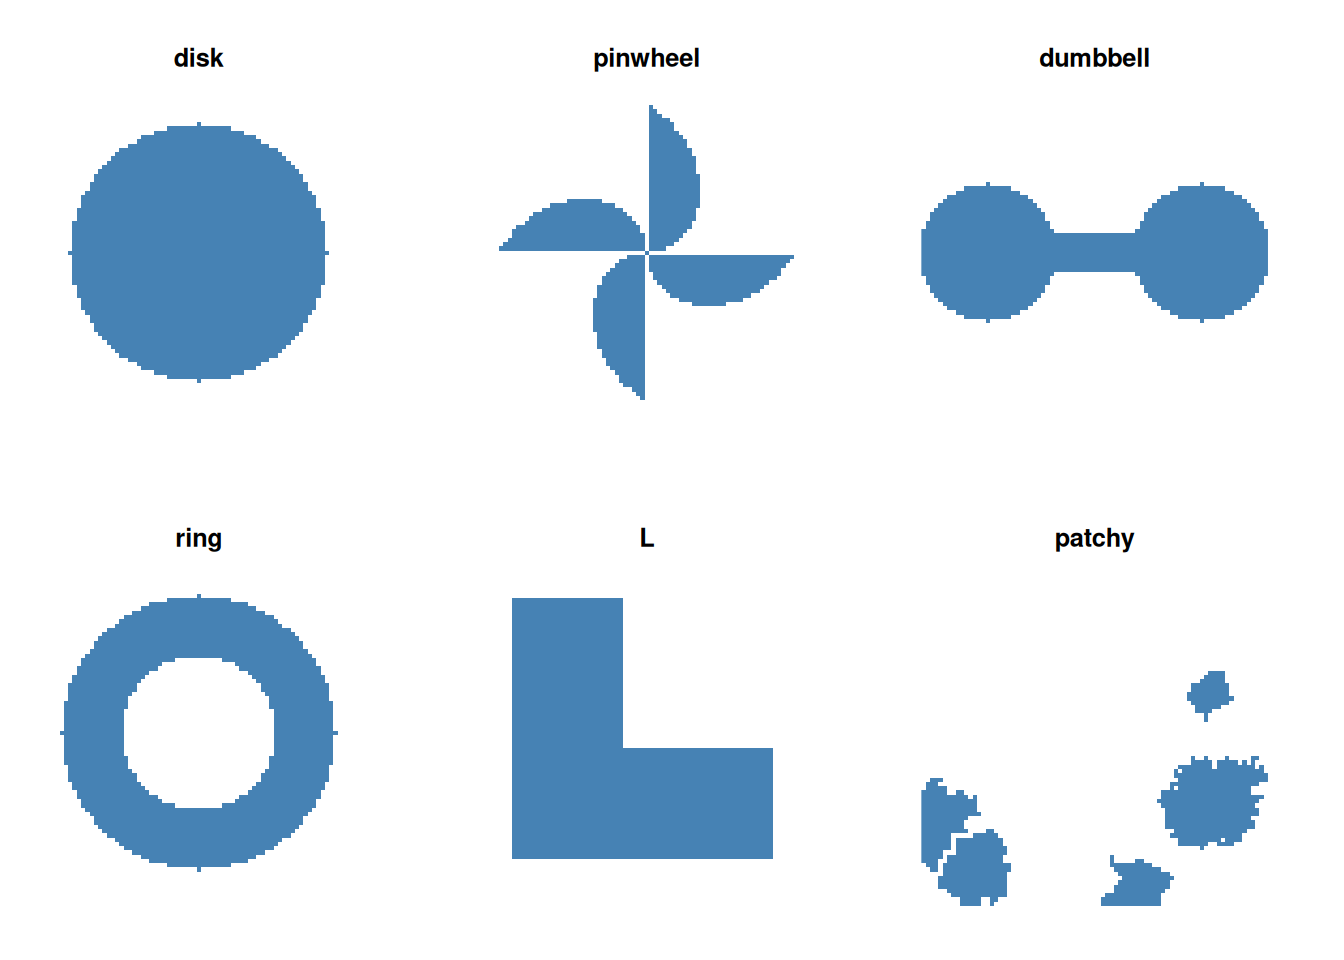
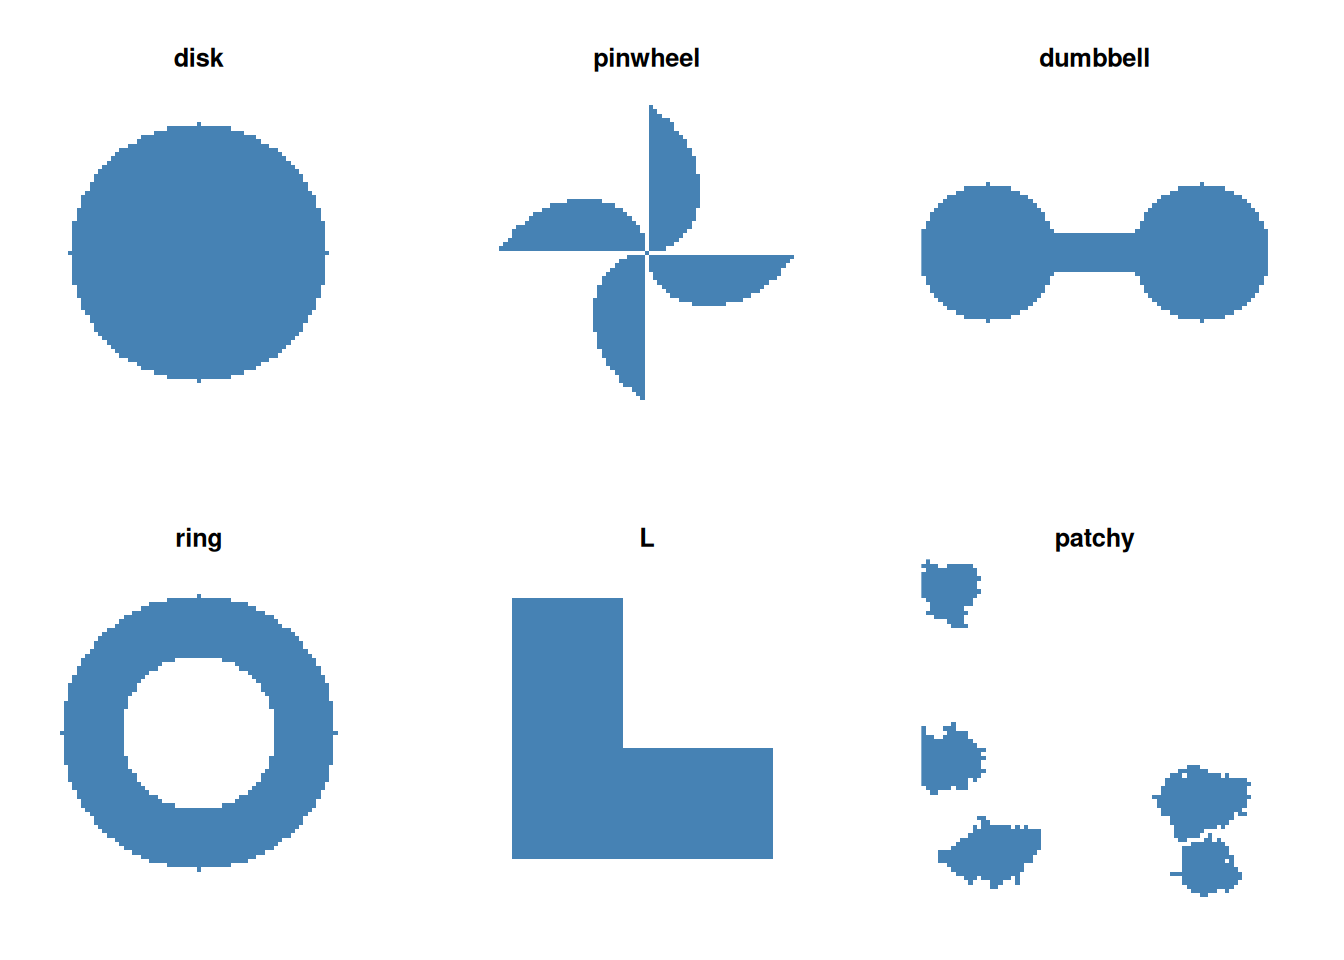
Deploying to gh-pages from @ nkaza/gridmorph@7335455c190198e38a2ae7d96c6a8dbcf4e39bb3 🚀

diff --git a/articles/a-basic-usage.html b/articles/a-basic-usage.html
@@ -292,7 +292,7 @@
 <td style="text-align: right;">0.665</td>
 <td style="text-align: right;">0.425</td>
 <td style="text-align: right;">0.675</td>
-<td style="text-align: right;">0.429</td>
+<td style="text-align: right;">0.414</td>
 </tr>
 <tr class="even">
 <td style="text-align: left;">moment_of_inertia</td>
@@ -301,7 +301,7 @@
 <td style="text-align: right;">0.411</td>
 <td style="text-align: right;">0.523</td>
 <td style="text-align: right;">0.689</td>
-<td style="text-align: right;">0.168</td>
+<td style="text-align: right;">0.126</td>
 </tr>
 <tr class="odd">
 <td style="text-align: left;">moment_isotropy</td>
@@ -310,7 +310,7 @@
 <td style="text-align: right;">0.093</td>
 <td style="text-align: right;">1.000</td>
 <td style="text-align: right;">0.400</td>
-<td style="text-align: right;">0.140</td>
+<td style="text-align: right;">0.319</td>
 </tr>
 <tr class="even">
 <td style="text-align: left;">directional_balance</td>
@@ -319,7 +319,7 @@
 <td style="text-align: right;">0.999</td>
 <td style="text-align: right;">1.000</td>
 <td style="text-align: right;">0.926</td>
-<td style="text-align: right;">0.873</td>
+<td style="text-align: right;">0.880</td>
 </tr>
 <tr class="odd">
 <td style="text-align: left;">convexity</td>
@@ -328,7 +328,7 @@
 <td style="text-align: right;">0.888</td>
 <td style="text-align: right;">0.681</td>
 <td style="text-align: right;">0.950</td>
-<td style="text-align: right;">0.580</td>
+<td style="text-align: right;">0.491</td>
 </tr>
 <tr class="even">
 <td style="text-align: left;">span</td>
@@ -337,7 +337,7 @@
 <td style="text-align: right;">0.672</td>
 <td style="text-align: right;">0.722</td>
 <td style="text-align: right;">0.839</td>
-<td style="text-align: right;">0.446</td>
+<td style="text-align: right;">0.367</td>
 </tr>
 <tr class="odd">
 <td style="text-align: left;">radial_concentration</td>
@@ -346,7 +346,7 @@
 <td style="text-align: right;">0.642</td>
 <td style="text-align: right;">0.694</td>
 <td style="text-align: right;">0.840</td>
-<td style="text-align: right;">0.417</td>
+<td style="text-align: right;">0.352</td>
 </tr>
 <tr class="even">
 <td style="text-align: left;">hull_ratio</td>
@@ -355,7 +355,7 @@
 <td style="text-align: right;">0.710</td>
 <td style="text-align: right;">0.666</td>
 <td style="text-align: right;">0.803</td>
-<td style="text-align: right;">0.310</td>
+<td style="text-align: right;">0.237</td>
 </tr>
 <tr class="odd">
 <td style="text-align: left;">polsby_popper</td>
@@ -364,7 +364,7 @@
 <td style="text-align: right;">0.465</td>
 <td style="text-align: right;">0.280</td>
 <td style="text-align: right;">0.593</td>
-<td style="text-align: right;">0.120</td>
+<td style="text-align: right;">0.123</td>
 </tr>
 <tr class="even">
 <td style="text-align: left;">width_length_ratio</td>
@@ -373,7 +373,7 @@
 <td style="text-align: right;">0.407</td>
 <td style="text-align: right;">1.000</td>
 <td style="text-align: right;">1.000</td>
-<td style="text-align: right;">0.679</td>
+<td style="text-align: right;">0.975</td>
 </tr>
 <tr class="odd">
 <td style="text-align: left;">reock</td>
@@ -382,7 +382,7 @@
 <td style="text-align: right;">0.354</td>
 <td style="text-align: right;">0.687</td>
 <td style="text-align: right;">0.447</td>
-<td style="text-align: right;">0.188</td>
+<td style="text-align: right;">0.122</td>
 </tr>
 <tr class="even">
 <td style="text-align: left;">detour</td>
@@ -391,7 +391,7 @@
 <td style="text-align: right;">0.747</td>
 <td style="text-align: right;">0.828</td>
 <td style="text-align: right;">0.806</td>
-<td style="text-align: right;">0.511</td>
+<td style="text-align: right;">0.433</td>
 </tr>
 <tr class="odd">
 <td style="text-align: left;">exchange</td>
@@ -400,7 +400,7 @@
 <td style="text-align: right;">0.438</td>
 <td style="text-align: right;">0.550</td>
 <td style="text-align: right;">0.726</td>
-<td style="text-align: right;">0.101</td>
+<td style="text-align: right;">0.034</td>
 </tr>
 <tr class="even">
 <td style="text-align: left;">geodesic_span</td>
@@ -505,33 +505,33 @@ multi-part shape.</code></pre>
 <tbody>
 <tr class="odd">
 <td style="text-align: right;">2</td>
-<td style="text-align: right;">1.50</td>
-<td style="text-align: right;">2.00</td>
+<td style="text-align: right;">1.52</td>
+<td style="text-align: right;">2.10</td>
 </tr>
 <tr class="even">
 <td style="text-align: right;">5</td>
-<td style="text-align: right;">1.50</td>
-<td style="text-align: right;">2.17</td>
+<td style="text-align: right;">1.58</td>
+<td style="text-align: right;">2.27</td>
 </tr>
 <tr class="odd">
 <td style="text-align: right;">10</td>
-<td style="text-align: right;">1.50</td>
-<td style="text-align: right;">2.77</td>
+<td style="text-align: right;">1.53</td>
+<td style="text-align: right;">2.89</td>
 </tr>
 <tr class="even">
 <td style="text-align: right;">20</td>
-<td style="text-align: right;">1.51</td>
-<td style="text-align: right;">3.91</td>
+<td style="text-align: right;">1.54</td>
+<td style="text-align: right;">4.04</td>
 </tr>
 <tr class="odd">
 <td style="text-align: right;">40</td>
-<td style="text-align: right;">1.52</td>
-<td style="text-align: right;">5.76</td>
+<td style="text-align: right;">1.56</td>
+<td style="text-align: right;">5.98</td>
 </tr>
 <tr class="even">
 <td style="text-align: right;">80</td>
-<td style="text-align: right;">1.54</td>
-<td style="text-align: right;">7.65</td>
+<td style="text-align: right;">1.57</td>
+<td style="text-align: right;">7.84</td>
 </tr>
 </tbody>
 </table>
@@ -560,17 +560,17 @@ multi-part shape.</code></pre>
 <tr class="odd">
 <td style="text-align: right;">2</td>
 <td style="text-align: right;">238</td>
-<td style="text-align: right;">0.69</td>
+<td style="text-align: right;">0.71</td>
 </tr>
 <tr class="even">
 <td style="text-align: right;">10</td>
 <td style="text-align: right;">574</td>
-<td style="text-align: right;">1.95</td>
+<td style="text-align: right;">2.01</td>
 </tr>
 <tr class="odd">
 <td style="text-align: right;">40</td>
 <td style="text-align: right;">986</td>
-<td style="text-align: right;">4.33</td>
+<td style="text-align: right;">4.44</td>
 </tr>
 </tbody>
 </table>

diff --git a/articles/c-comparison-with-shapeindices.html b/articles/c-comparison-with-shapeindices.html
@@ -303,8 +303,8 @@
 <span>           elapsed_seconds <span class="op">=</span> <span class="fu"><a href="https://rdrr.io/r/base/c.html" class="external-link">c</a></span><span class="op">(</span><span class="va">t_vector</span><span class="op">[[</span><span class="st">"elapsed"</span><span class="op">]</span><span class="op">]</span>, <span class="va">t_raster</span><span class="op">[[</span><span class="st">"elapsed"</span><span class="op">]</span><span class="op">]</span><span class="op">)</span><span class="op">)</span></span></code></pre></div>
 <div class="cell-output cell-output-stdout">
 <pre><code>                package elapsed_seconds
-1 shapeindices (vector)           0.711
-2    gridmorph (raster)           3.026</code></pre>
+1 shapeindices (vector)           0.721
+2    gridmorph (raster)           3.057</code></pre>
 </div>
 </div>
 <p>Both are fast at this scale - a handful of counties is a small problem either way. The difference shows up on a genuinely large, complex shape: all 100 NC counties combined into one, with real holes and real multi-part dispersal (barrier islands). <code>shapeindices</code>’ own deterministic mode warns explicitly once a mesh gets large - triangulating the full NC union already produces 281 triangles, and just <code><a href="https://nkaza.github.io/shapeindices/reference/convexity_index.html" class="external-link">convexity_index()</a></code> alone (one of thirteen indices, deterministic mode) takes on the order of <strong>19 seconds</strong>. <code>gridmorph</code>, on a raster covering the same shape at a comparable level of detail (roughly 49,000 valid cells):</p>
@@ -319,7 +319,7 @@
 <code class="sourceCode R"><span><span class="va">t_full</span> <span class="op">&lt;-</span> <span class="fu"><a href="https://rdrr.io/r/base/system.time.html" class="external-link">system.time</a></span><span class="op">(</span><span class="va">gm_full</span> <span class="op">&lt;-</span> <span class="fu"><a href="../reference/gm_shape_indices.html">gm_shape_indices</a></span><span class="op">(</span><span class="va">r_nc</span>, size <span class="op">=</span> <span class="fl">500</span>, seed <span class="op">=</span> <span class="fl">1</span><span class="op">)</span><span class="op">)</span></span>
 <span><span class="va">t_full</span><span class="op">[[</span><span class="st">"elapsed"</span><span class="op">]</span><span class="op">]</span>  <span class="co"># ALL THIRTEEN indices, not just one</span></span></code></pre></div>
 <div class="cell-output cell-output-stdout">
-<pre><code>[1] 1.906</code></pre>
+<pre><code>[1] 1.956</code></pre>
 </div>
 </div>
 <p>All thirteen indices, in roughly a second - not because <code>gridmorph</code>’s own math is cheaper per-unit, but because it never had an <code>O(n^2)</code> mode to fall into in the first place: every index here is <code>O(N)</code> or Monte Carlo <code>O(size)</code>, both of which scale predictably as the shape gets more complex. <code>shapeindices</code> has its own escape valve for this (<code>deterministic = FALSE</code>, or <code><a href="https://nkaza.github.io/shapeindices/reference/shape_indices.html" class="external-link">shape_indices()</a></code>’s own <code>deterministic_max_tri</code> argument to switch automatically) - the point isn’t that one package is “faster,” it’s that <code>gridmorph</code>’s cost model doesn’t have a quadratic cliff to fall off in the first place, because raster cell counts make that mode a non-starter from the start.</p>

diff --git a/articles/a-basic-usage.md b/articles/a-basic-usage.md
@@ -299,19 +299,19 @@ knitr::kable(round(all_results, 3))
 
 |                      |  disk | pinwheel | dumbbell |  ring |     L | patchy |
 |:---------------------|------:|---------:|---------:|------:|------:|-------:|
-| depth                | 1.001 |    0.408 |    0.665 | 0.425 | 0.675 |  0.429 |
-| moment_of_inertia    | 1.000 |    0.527 |    0.411 | 0.523 | 0.689 |  0.168 |
-| moment_isotropy      | 1.000 |    1.000 |    0.093 | 1.000 | 0.400 |  0.140 |
-| directional_balance  | 1.000 |    0.999 |    0.999 | 1.000 | 0.926 |  0.873 |
-| convexity            | 1.000 |    0.784 |    0.888 | 0.681 | 0.950 |  0.580 |
-| span                 | 0.984 |    0.731 |    0.672 | 0.722 | 0.839 |  0.446 |
-| radial_concentration | 1.003 |    0.735 |    0.642 | 0.694 | 0.840 |  0.417 |
-| hull_ratio           | 0.968 |    0.478 |    0.710 | 0.666 | 0.803 |  0.310 |
-| polsby_popper        | 0.978 |    0.160 |    0.465 | 0.280 | 0.593 |  0.120 |
-| width_length_ratio   | 1.000 |    1.000 |    0.407 | 1.000 | 1.000 |  0.679 |
-| reock                | 0.996 |    0.345 |    0.354 | 0.687 | 0.447 |  0.188 |
-| detour               | 0.997 |    0.641 |    0.747 | 0.828 | 0.806 |  0.511 |
-| exchange             | 0.993 |    0.591 |    0.438 | 0.550 | 0.726 |  0.101 |
+| depth                | 1.001 |    0.408 |    0.665 | 0.425 | 0.675 |  0.414 |
+| moment_of_inertia    | 1.000 |    0.527 |    0.411 | 0.523 | 0.689 |  0.126 |
+| moment_isotropy      | 1.000 |    1.000 |    0.093 | 1.000 | 0.400 |  0.319 |
+| directional_balance  | 1.000 |    0.999 |    0.999 | 1.000 | 0.926 |  0.880 |
+| convexity            | 1.000 |    0.784 |    0.888 | 0.681 | 0.950 |  0.491 |
+| span                 | 0.984 |    0.731 |    0.672 | 0.722 | 0.839 |  0.367 |
+| radial_concentration | 1.003 |    0.735 |    0.642 | 0.694 | 0.840 |  0.352 |
+| hull_ratio           | 0.968 |    0.478 |    0.710 | 0.666 | 0.803 |  0.237 |
+| polsby_popper        | 0.978 |    0.160 |    0.465 | 0.280 | 0.593 |  0.123 |
+| width_length_ratio   | 1.000 |    1.000 |    0.407 | 1.000 | 1.000 |  0.975 |
+| reock                | 0.996 |    0.345 |    0.354 | 0.687 | 0.447 |  0.122 |
+| detour               | 0.997 |    0.641 |    0.747 | 0.828 | 0.806 |  0.433 |
+| exchange             | 0.993 |    0.591 |    0.438 | 0.550 | 0.726 |  0.034 |
 | geodesic_span        | 1.087 |    0.564 |    0.706 | 0.670 | 0.746 |     NA |
 | geodesic_chord       | 0.992 |    0.811 |    0.841 | 0.861 | 0.930 |     NA |
 
@@ -454,12 +454,12 @@ knitr::kable(scaling, caption = "Seconds for all fifteen gridmorph indices vs. a
 
 | patches | gridmorph | shapeindices (Monte Carlo) |
 |--------:|----------:|---------------------------:|
-|       2 |      1.50 |                       2.00 |
-|       5 |      1.50 |                       2.17 |
-|      10 |      1.50 |                       2.77 |
-|      20 |      1.51 |                       3.91 |
-|      40 |      1.52 |                       5.76 |
-|      80 |      1.54 |                       7.65 |
+|       2 |      1.52 |                       2.10 |
+|       5 |      1.58 |                       2.27 |
+|      10 |      1.53 |                       2.89 |
+|      20 |      1.54 |                       4.04 |
+|      40 |      1.56 |                       5.98 |
+|      80 |      1.57 |                       7.84 |
 
 Seconds for all fifteen gridmorph indices vs. all thirteen shapeindices
 indices, same shapes, increasing patch count at roughly fixed total
@@ -492,9 +492,9 @@ knitr::kable(deterministic, caption = "shapeindices' own deterministic (exhausti
 
 | patches | n_triangles | seconds |
 |--------:|------------:|--------:|
-|       2 |         238 |    0.69 |
-|      10 |         574 |    1.95 |
-|      40 |         986 |    4.33 |
+|       2 |         238 |    0.71 |
+|      10 |         574 |    2.01 |
+|      40 |         986 |    4.44 |
 
 shapeindices’ own deterministic (exhaustive) convexity_index() mode,
 same patchy shapes. {.table .caption-top}

diff --git a/articles/c-comparison-with-shapeindices.md b/articles/c-comparison-with-shapeindices.md
@@ -198,8 +198,8 @@ data.frame(package = c("shapeindices (vector)", "gridmorph (raster)"),
 ```
 
                     package elapsed_seconds
-    1 shapeindices (vector)           0.711
-    2    gridmorph (raster)           3.026
+    1 shapeindices (vector)           0.721
+    2    gridmorph (raster)           3.057
 
 Both are fast at this scale - a handful of counties is a small problem
 either way. The difference shows up on a genuinely large, complex shape:
@@ -226,7 +226,7 @@ t_full <- system.time(gm_full <- gm_shape_indices(r_nc, size = 500, seed = 1))
 t_full[["elapsed"]]  # ALL THIRTEEN indices, not just one
 ```
 
-    [1] 1.906
+    [1] 1.956
 
 All thirteen indices, in roughly a second - not because `gridmorph`’s
 own math is cheaper per-unit, but because it never had an `O(n^2)` mode